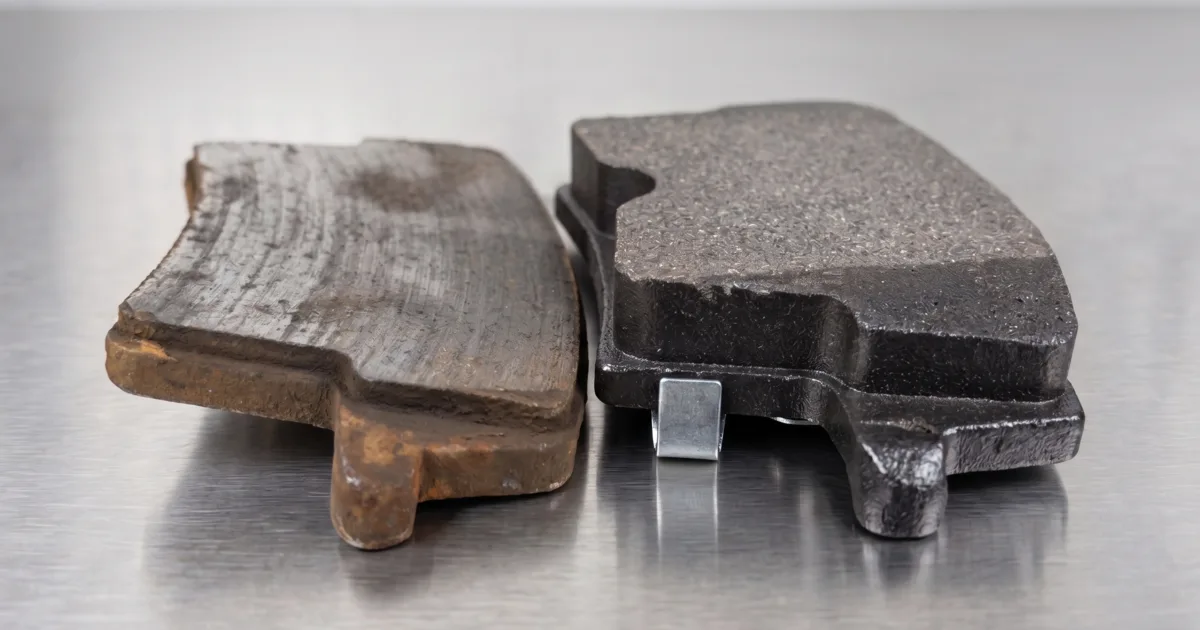
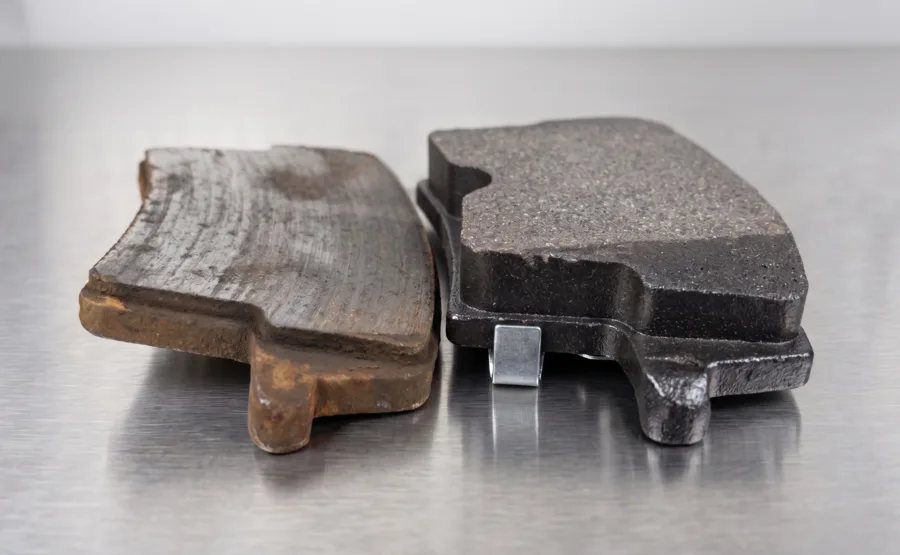
Improve image placement and integration on service pages
Update CSS and server configuration to better position comparison images, integrate them with text, and improve caching.

Replit-Commit-Author: Agent
Replit-Commit-Session-Id: 888daae3-2fe4-4055-953f-2c8f24609310
Replit-Commit-Checkpoint-Type: full_checkpoint
Replit-Commit-Event-Id: 66413e71-66f4-4fb5-86e5-1dc2f354a513
Replit-Commit-Screenshot-Url: https://storage.googleapis.com/screenshot-production-us-central1/61e1ad16-6edd-4ce4-af10-bebcd6170fca/888daae3-2fe4-4055-953f-2c8f24609310/oKIEVvw
Replit-Helium-Checkpoint-Created: true

diff --git a/artifacts/slcautoshop/public/css/style.css b/artifacts/slcautoshop/public/css/style.css
@@ -215,6 +215,15 @@ a.tag:hover{border-color:var(--c-primary);color:var(--c-primary);background:var(
 .prose-figcaption{font-size:.8rem;color:var(--c-text-dim);margin-top:.5rem;line-height:1.5;font-style:italic}
 @media(max-width:600px){.prose-image{border-radius:var(--radius-sm)}}
 
+/* === Comparison image split layout === */
+.compare-split{overflow:hidden}
+.compare-split figure{float:right;width:48%;margin:0 0 1rem 2.5rem}
+.compare-split-img{width:100%;height:auto;border-radius:var(--radius);box-shadow:var(--shadow);display:block}
+.compare-split figure figcaption{font-size:.8rem;color:var(--c-text-dim);margin-top:.5rem;line-height:1.5;font-style:italic}
+.compare-split-text p{font-size:1rem;line-height:1.75;color:var(--c-text);margin:0 0 1rem}
+.compare-split-text .compare-caption{font-size:.8rem;color:var(--c-text-dim);font-style:italic;line-height:1.5;border-top:1px solid var(--c-border);padding-top:.75rem;margin-top:.25rem}
+@media(max-width:560px){.compare-split figure{float:none;width:100%;margin:1.25rem 0 0}.compare-split-text .compare-caption{display:none}}
+
 /* === Cost callout & inline CTA === */
 .section-cta-block{margin-top:2rem;padding:1.5rem;background:var(--c-primary-light);border-radius:var(--radius);border-left:4px solid var(--c-primary)}
 .section-cta-block p{font-size:.95rem;font-weight:600;color:var(--c-dark);margin:0 0 1rem}

diff --git a/artifacts/slcautoshop/server.js b/artifacts/slcautoshop/server.js
@@ -75,7 +75,7 @@ const businessSchema = {
 
 const app = express();
 const PORT = process.env.PORT || 3000;
-const CSS_VER = process.env.CSS_VER || (() => { try { return require('child_process').execSync('git rev-parse --short HEAD').toString().trim(); } catch (e) { return 'prod'; } })();
+const CSS_VER = process.env.CSS_VER || (() => { try { return require('fs').statSync(path.join(__dirname, 'public/css/style.css')).mtimeMs.toString(36); } catch (e) { return 'prod'; } })();
 
 // Middleware
 app.use(compression());
